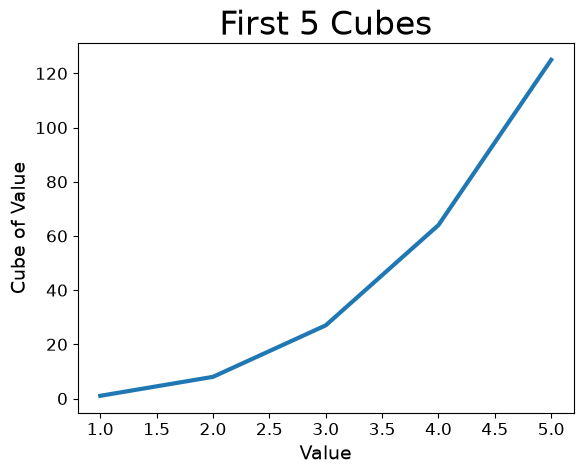
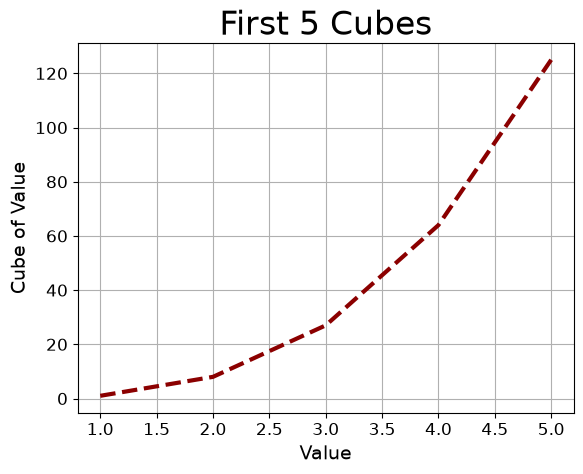
Add plot styling with dashed line and grid

diff --git a/Lab15_jeffr-2.py b/Lab15_jeffr-2.py
@@ -14,8 +14,9 @@ import matplotlib.pyplot as plt
 
 def plot_cubes(values, cubes, title, filename):
     """Plot cubes against their values and save the figure to a PNG file."""
-    fig, ax = plt.subplots()
-    ax.plot(values, cubes, linewidth=3)
+    fig, ax = plt.subplots()    
+    ax.plot(values, cubes, linewidth=3, color="darkred", linestyle="--")
+    ax.grid(True)
     ax.set_title(title, fontsize=24)
     ax.set_xlabel("Value", fontsize=14)
     ax.set_ylabel("Cube of Value", fontsize=14)
